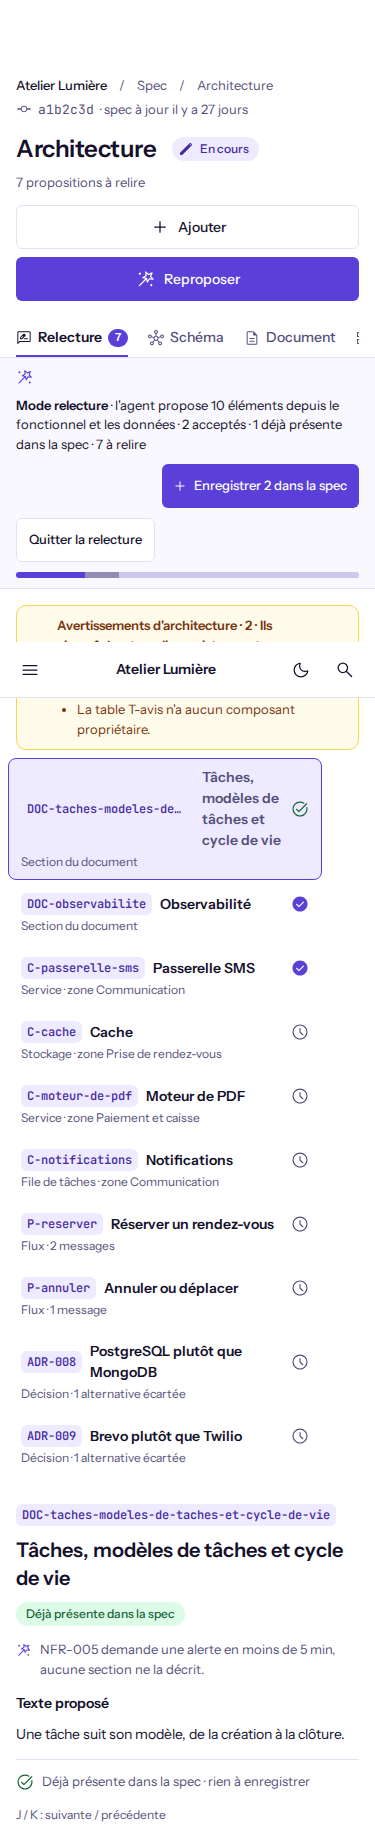
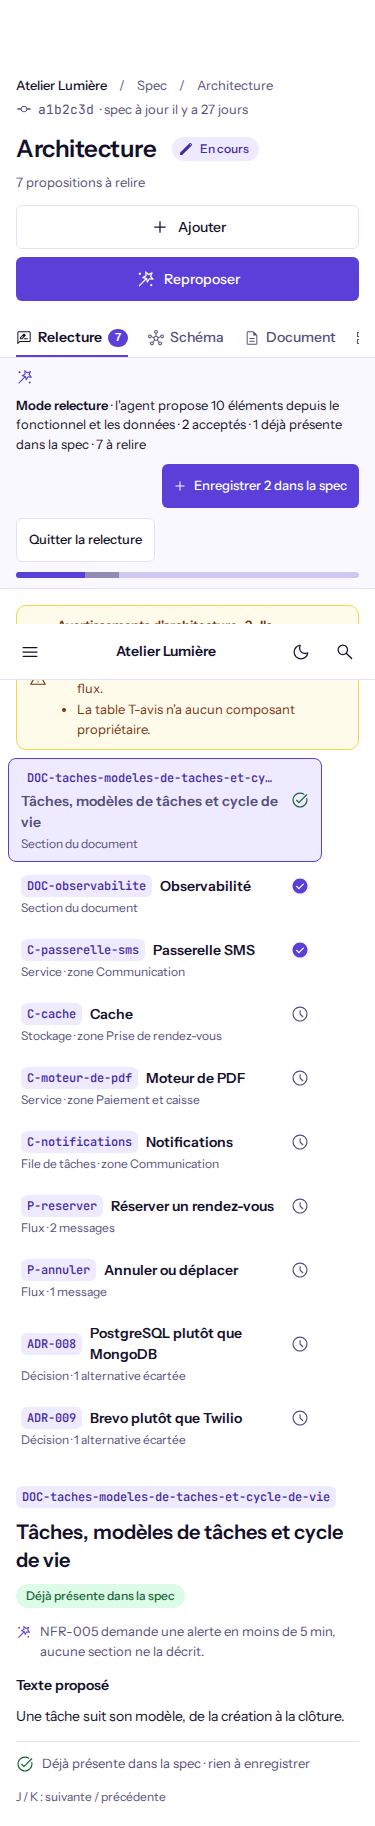
fix(ui): identifiant long lisible dans la relecture (TK-114h)
Dans la liste, un identifiant long écrasait le titre en une colonne étroite :
le titre passe désormais sous l'identifiant. Dans le détail, l'identifiant
passe à la ligne au lieu d'élargir la page.

diff --git a/packages/ui/test/proposal-review.test.tsx b/packages/ui/test/proposal-review.test.tsx
@@ -197,9 +197,9 @@ describe("ProposalReview : liste à plat de 330 px", () => {
   });
 });
 
-describe("ProposalReview : identifiant long (TK-114g)", () => {
-  it("identifiant long : il se tronque (titre complet au survol), le titre et l'icône d'état restent sur la ligne", () => {
-    const ref = "DOC-taches-modeles-de-taches-et-cycle-de-vie";
+describe("ProposalReview : identifiant long (TK-114g, TK-114h)", () => {
+  const ref = "DOC-taches-modeles-de-taches-et-cycle-de-vie";
+  const showLong = () => {
     const [group] = flat(1);
     const long = {
       ...(group as ProposalReviewGroup).items[0],
@@ -207,14 +207,32 @@ describe("ProposalReview : identifiant long (TK-114g)", () => {
       status: "present",
     } as ProposalReviewItem;
     setup({ groups: [{ ...(group as ProposalReviewGroup), items: [long] }], selectedId: "p1" });
-    const row = within(screen.getByRole("list", { name: "Propositions à relire" })).getByRole(
+    return within(screen.getByRole("list", { name: "Propositions à relire" })).getByRole(
       "listitem",
     );
+  };
+
+  it("l'identifiant prend jusqu'à toute la ligne puis se tronque, complet au survol", () => {
+    const row = showLong();
     const tag = within(row).getByTitle(ref);
-    expect(tag).toHaveClass("min-w-0", "overflow-hidden");
+    expect(tag).toHaveClass("min-w-0", "max-w-full", "overflow-hidden");
     expect(within(tag).getByText(ref)).toHaveClass("truncate");
-    expect(within(row).getByText("Fonctionnalité 1")).toBeVisible();
     expect(within(row).getByRole("img", { name: "Déjà présente dans la spec" })).toBeVisible();
+  });
+
+  it("le titre passe sous l'identifiant au lieu d'être écrasé en colonne", () => {
+    const row = showLong();
+    const title = within(row).getByText("Fonctionnalité 1");
+    expect(title).toHaveClass("min-w-0", "flex-1", "basis-28");
+    expect(title.parentElement).toHaveClass("flex-wrap", "flex-1", "min-w-0");
+    expect(title.parentElement).toContainElement(within(row).getByTitle(ref));
+  });
+
+  it("dans le détail, l'identifiant passe à la ligne sans élargir la page", () => {
+    const long = { ...(items(1)[0] as ProposalReviewItem), ref };
+    render(<ProposalDetail item={long} onDecide={vi.fn()} />);
+    const detail = screen.getByText(ref);
+    expect(detail).toHaveClass("max-w-full", "whitespace-normal", "break-all");
   });
 });
 

diff --git a/packages/ui/src/components/proposal-review-row.tsx b/packages/ui/src/components/proposal-review-row.tsx
@@ -11,21 +11,26 @@ export function ProposalStateIcon({ status }: { status: ProposalReviewItem["stat
   );
 }
 
-/** Contenu d'un élément de la liste (maquette 10 l.542-546) : identifiant, titre, état, sous-titre. */
+/**
+ * Contenu d'un élément de la liste (maquette 10 l.542-546) : identifiant, titre, état, sous-titre.
+ * Sous 112 px de place restante (identifiant long), le titre passe sous l'identifiant.
+ */
 export function ProposalRowContent({ item }: { item: ProposalReviewItem }) {
   return (
     <span className="flex min-w-0 flex-1 flex-col gap-0.5 text-left">
       <span className="flex items-center gap-2">
-        <IdTag title={item.ref} className="min-w-0 max-w-[60%] overflow-hidden">
-          <span className="truncate">{item.ref}</span>
-        </IdTag>
-        <span
-          className={cn(
-            "min-w-0 flex-1 text-body font-semibold",
-            isFaded(item.status) && "text-muted-foreground",
-          )}
-        >
-          {item.title}
+        <span className="flex min-w-0 flex-1 flex-wrap items-center gap-x-2 gap-y-0.5">
+          <IdTag title={item.ref} className="min-w-0 max-w-full overflow-hidden">
+            <span className="truncate">{item.ref}</span>
+          </IdTag>
+          <span
+            className={cn(
+              "min-w-0 flex-1 basis-28 text-body font-semibold",
+              isFaded(item.status) && "text-muted-foreground",
+            )}
+          >
+            {item.title}
+          </span>
         </span>
         <ProposalStateIcon status={item.status} />
       </span>

diff --git a/packages/ui/src/components/proposal-review-detail.tsx b/packages/ui/src/components/proposal-review-detail.tsx
@@ -143,7 +143,9 @@ export function ProposalDetail(props: ProposalDetailProps) {
       className="flex min-w-0 flex-[999_1_420px] flex-col gap-3.5 px-4 py-5 md:px-7"
     >
       <div className="flex flex-wrap items-center gap-2.5">
-        <IdTag size="default">{item.ref}</IdTag>
+        <IdTag className="h-auto min-h-[22px] max-w-full whitespace-normal break-all">
+          {item.ref}
+        </IdTag>
         <h2 className="text-xl font-semibold">{item.title}</h2>
         <Pill tone={PILL_OF[item.status] ?? "outline"}>{state.label}</Pill>
       </div>

diff --git a/DESIGN.md b/DESIGN.md
@@ -429,7 +429,7 @@ Barre : groupe « Récents » (3 projets, `ProjectTile` 22, l.38-41) au-dessus d
 | `AgentProposeButton` | Hauteur 36, marges 0 14 0 12, rayon 6, 14/500, icône `wand_stars` 20 (l'`auto_awesome` des planches, §4). `idle` `--primary` ; `open` + halo 3 `--soft` ; `running` `progress_activity` (animation sous `motion-safe:`), « L'agent propose… », opacité .82, curseur `progress`, `aria-disabled` ; `ready` `rate_review`, « Relire N propositions », halo ; `unavailable` bordure pointillée `--border-strong`, fond `--surface`, texte `--muted-foreground`, infobulle avec la raison. Premier des actions de l'en-tête, absent en vue client. Maquette 21 l.110-118. |
 | `AgentProposePopover` | Modale `Dialog` centrée, 520 (`calc(100% - 32px)`), rayon 14, ombre `0 18px 44px rgba(20,16,43,.20)`, voile `--overlay` flou 6 sous `motion-safe`. En-tête `IconTile` 34 `--primary` + titre 15/600 + sous-titre 12 ; cartes radio (`role="radio"`, pastille 18, point 8, rayon 10, choisie : bordure `--primary` et fond `--diff-bg`), `Pill xs primary` « Recommandé », `Pill xs soft` pour le compte ; `Textarea` 2 lignes (`value`) ; puces « L'agent lit » 22 ; pied `--surface`. Maquette 21 l.57-68, 127-131 ; 10 l.388-419. |
 | `ProposalGenerationBanner` | Bande de génération pleine largeur (maquette 10 l.107-108) : `--diff-bg`, bordure basse, `progress_activity` 18 `--primary`, texte 13 (« … Cela peut prendre une minute. Vous pouvez quitter la page. »), « Annuler l'attente » souligné ; `role="status"`. Prop `detail` : seconde ligne `--muted-foreground` (bilan en cours, §5.25, TK-114b). Suivie de `ProposalSkeleton` (6 lignes de 44). |
-| `ProposalReview` | Bandeau `--diff-bg` (`role="group"` nommé ; les annonces passent par une région `role="status"` à part) : « Mode relecture · N propositions · A acceptées · R rejetées · P à relire », barre 6 (acceptées `--primary`, rejetées `--muted` à 50 %), « Enregistrer A dans la spec ». Liste 330, détail, pied Accepter `A` · Modifier · Rejeter `R` · demande à l'agent ; « Remettre à relire » une fois décidée. Raccourcis J / K / A / R hors champ de saisie (2.1.4). Maquette 10 l.114-168. Sans `onSave` (enregistrement échoué à réessayer, TK-114e, B686) : ni bouton ni « Acceptez au moins… » tant qu'il y a des acceptées, pied de liste « Tout est relu. » sans appel à enregistrer. |
+| `ProposalReview` | Bandeau `--diff-bg` (`role="group"` nommé ; les annonces passent par une région `role="status"` à part) : « Mode relecture · N propositions · A acceptées · R rejetées · P à relire », barre 6 (acceptées `--primary`, rejetées `--muted` à 50 %), « Enregistrer A dans la spec ». Liste 330, détail, pied Accepter `A` · Modifier · Rejeter `R` · demande à l'agent ; « Remettre à relire » une fois décidée. Raccourcis J / K / A / R hors champ de saisie (2.1.4). Maquette 10 l.114-168. Sans `onSave` (enregistrement échoué à réessayer, TK-114e, B686) : ni bouton ni « Acceptez au moins… » tant qu'il y a des acceptées, pied de liste « Tout est relu. » sans appel à enregistrer. Identifiant long (TK-114h) : dans la liste, s'il reste moins de 112 px, le titre passe sous l'identifiant (tronqué au-delà de la ligne, complet au survol) ; dans le détail, l'identifiant passe à la ligne. |
 | Relecture en volume | Filtre « À relire » par défaut ; au-delà de 30, groupes repliables à en-tête collant (`aria-expanded`), 8 éléments puis « Afficher 20 de plus · N restantes dans ce groupe », « Accepter les N restantes » par groupe seulement, liste du groupe ouvert virtualisée (`aria-setsize`, `aria-posinset`). Maquette 12 l.126-148. |
 
 Galerie : `/dev/ui`, section « 14. Propositions de l'agent » (id `dev-ui-proposals`). Texte du modèle toujours brut (jamais de lien ni de balise) ; jamais le nom du fournisseur d'IA (la note dit « l'agent IA avec la clé de l'organisation »).

diff --git a/docs/refonte/passation.md b/docs/refonte/passation.md
@@ -44,8 +44,9 @@ last_reviewed: 2026-11-21
 | 025 | TK-114e (enregistrement sans conflit global : pré-vérification côté API, sections déjà présentes écartées au triage, échec visible dans la Relecture avec « Réessayer l'enregistrement ») | ✅ fusionné (PR #236) ; décisions B668 à B678 ; contrat 3.15.0 ; DESIGN v2.34 ; sans migration |
 | 025 | TK-114f (cache des lectures git par installation, dépôt et commit, frein pendant le quota, message « GitHub limite les lectures » avec « Réessayer » ; diagramme de séquence élargi, PR #238) | ✅ fusionné (PR #239) ; décisions B687 à B696 ; sans migration ni contrat |
 | 025 | TK-114g (création déjà présente sur la tête : état terminal « Déjà présente dans la spec », plus de remise à relire) | ✅ fusionné (PR #240) ; décisions B697 à B705 ; contrat 3.16.0 ; DESIGN v2.35 ; migration `discard_reason` |
+| 025 | TK-114h (relecture : identifiant long, le titre passe dessous au lieu d'être écrasé en colonne ; détail : l'identifiant passe à la ligne) | ✅ fusionné (branche `fix/tk-114h-identifiant-long`) ; correction directe, sans workflow |
 
-Ticket en cours : aucun (TK-114g fusionné) (TK-114f fusionné) (TK-114e fusionné) (TK-114d fusionné) (TK-114c fusionné) (TK-114b fusionné). Prochain : TK-115 (sprint 026, Technique : formats, états, Stack, Environnements), **pas encore lancé**. DoD des sprints 022 à 025 encore à vérifier avant de les cocher ; case de TK-110 (sprint 024) à cocher après relecture des captures.
+Ticket en cours : aucun (TK-114h fusionné) (TK-114g fusionné) (TK-114f fusionné) (TK-114e fusionné) (TK-114d fusionné) (TK-114c fusionné) (TK-114b fusionné). Prochain : TK-115 (sprint 026, Technique : formats, états, Stack, Environnements), **pas encore lancé**. DoD des sprints 022 à 025 encore à vérifier avant de les cocher ; case de TK-110 (sprint 024) à cocher après relecture des captures.
 
 Interdit pour l'instant : le lot 12 (`23-Lot12Tickets`). Questions ouvertes pour l'utilisateur : A1, B16 (`questions.md`).
 
